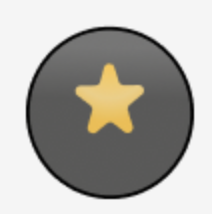
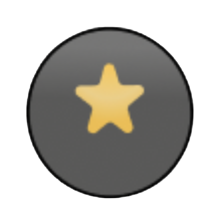
Polished badges

diff --git a/src/screens/Profile/Me.js b/src/screens/Profile/Me.js
@@ -143,7 +143,7 @@ export default function ({ navigation }) {
         </View>
         
         <View style={styles.badge}>
-          <WithBadge mealsAttended={mealsAttended} mealsSignedUp={mealsSignedUp} color={"pink"}/>
+          <WithBadge mealsAttended={mealsAttended} mealsSignedUp={mealsSignedUp}/>
         </View>
         
         <View style={styles.settings}>

diff --git a/src/components/WithBadge.js b/src/components/WithBadge.js
@@ -11,8 +11,7 @@ const WithBadge = props => {
             resizeMode: 'contain',
             width: 50,
             height: 50,
-            borderRadius: 100,
-            backgroundColor: color,
+            borderRadius: 100
           },
     });
 
